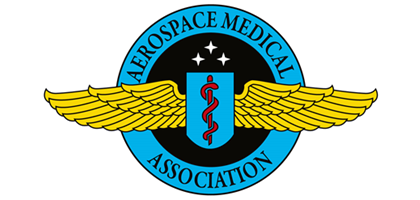
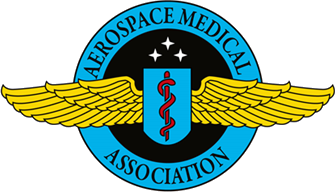
Make site responsive and polish Speaking, Recognition, and Contact sections
- Add mobile/tablet/laptop/desktop breakpoints with a mobile nav menu
- Modernize hero CTA buttons with hover/active/focus states
- Add logo badges to Speaking & Media cards (WAI, Forbes) and swap in a
  cleaner Forbes article screenshot
- Reposition and restyle the UW logo below the DRG and Abri Labs links;
  add the real Abri Labs logo
- Fix contact form bug where a mismatched element id threw a JS error on
  submit, so the "Thank you" confirmation never appeared
- Fix an accessibility bug where the Abri Labs link changed color instead
  of just underlining on hover
- Clean up the Recognition/affiliations list: trim baked-in whitespace and
  white backgrounds from logo assets, center them consistently, drop the
  divider lines, and collapse to a single column at every breakpoint

diff --git a/styles.css b/styles.css
@@ -56,10 +56,18 @@
 .s15 { font-size: 18px; font-weight: 400; color: oklch(33% 0.11 254); letter-spacing: 0.01em; margin-bottom: 36px; }
 .s16 { font-size: 17px; font-weight: 300; line-height: 1.78; color: oklch(34% 0.015 248); max-width: 560px; margin-bottom: 52px; animation: fadeUp 0.7s 0.7s ease both; }
 .s17 { display: flex; gap: 14px; flex-wrap: wrap; animation: fadeUp 0.7s 0.24s ease both; }
-.s18 { font-size: 15px; font-weight: 500; background: oklch(33% 0.11 254); color: white; padding: 15px 32px; border-radius: 4px; text-decoration: none; transition: background 0.18s; }
-.s18:hover { background: oklch(25% 0.11 254); text-decoration: none; }
-.s19 { font-size: 15px; font-weight: 500; color: oklch(33% 0.11 254); border: 1.5px solid oklch(75% 0.06 254); padding: 15px 32px; border-radius: 4px; text-decoration: none; transition: border-color 0.18s; }
-.s19:hover { border-color: oklch(33% 0.11 254); text-decoration: none; }
+.s18 { font-size: 15px; font-weight: 600; letter-spacing: -0.01em; background: oklch(33% 0.11 254); color: white; padding: 16px 30px; border-radius: 9px; text-decoration: none; display: inline-flex; align-items: center; gap: 8px; box-shadow: 0 1px 2px oklch(13% 0.04 252 / 0.08), 0 10px 22px oklch(33% 0.11 254 / 0.28); transition: background 0.22s ease, box-shadow 0.22s ease, transform 0.22s ease; }
+.s18::after { content: "→"; transition: transform 0.22s ease; }
+.s18:hover { background: oklch(27% 0.11 254); text-decoration: none; box-shadow: 0 2px 4px oklch(13% 0.04 252 / 0.1), 0 14px 28px oklch(33% 0.11 254 / 0.36); transform: translateY(-2px); }
+.s18:hover::after { transform: translateX(4px); }
+.s18:active { transform: translateY(0); box-shadow: 0 1px 2px oklch(13% 0.04 252 / 0.1), 0 6px 14px oklch(33% 0.11 254 / 0.3); }
+.s18:focus-visible { outline: 2px solid oklch(60% 0.1 254); outline-offset: 3px; }
+.s19 { font-size: 15px; font-weight: 600; letter-spacing: -0.01em; color: oklch(33% 0.11 254); background: white; border: 1.5px solid oklch(88% 0.015 250); padding: 16px 30px; border-radius: 9px; text-decoration: none; display: inline-flex; align-items: center; gap: 8px; box-shadow: 0 1px 2px oklch(13% 0.04 252 / 0.04); transition: border-color 0.22s ease, background 0.22s ease, box-shadow 0.22s ease, transform 0.22s ease; }
+.s19::after { content: "→"; transition: transform 0.22s ease; }
+.s19:hover { border-color: oklch(33% 0.11 254); background: oklch(97% 0.015 254); text-decoration: none; box-shadow: 0 6px 16px oklch(33% 0.11 254 / 0.12); transform: translateY(-2px); }
+.s19:hover::after { transform: translateX(4px); }
+.s19:active { transform: translateY(0); box-shadow: none; }
+.s19:focus-visible { outline: 2px solid oklch(60% 0.1 254); outline-offset: 3px; }
 .s20 { animation: fadeUp 0.7s 0.12s ease both; position: relative; max-width: 480px; margin: 0 auto; padding: 70px; }
 .s21 { position: absolute; inset: 0; background: radial-gradient(circle at 50% 46%, oklch(85% 0.006 247) 0%, oklch(85% 0.006 247) 34%, oklch(85% 0.006 247 / 0.65) 50%, oklch(85% 0.006 247 / 0.22) 68%, transparent 85%); pointer-events: none; }
 .s22 { position: absolute; left: 8%; right: 8%; top: 18%; height: 1px; background: oklch(60% 0.008 247 / 0.35); pointer-events: none; }
@@ -94,15 +102,15 @@
 .s51 { font-size: 14px; color: oklch(48% 0.015 248); line-height: 1.5; }
 .s52 { display: flex; align-items: center; gap: 10px; margin-bottom: 20px; }
 .s53 { height: 32px; width: auto; object-fit: contain; display: block; }
-.s54 { display: grid; grid-template-columns: repeat(2, 1fr); border-top: 1px solid oklch(87% 0.012 247); }
-.s55 { padding: 28px 0 28px 40px; border-bottom: 1px solid oklch(87% 0.012 247); border-left: 1px solid oklch(87% 0.012 247); display: flex; gap: 18px; align-items: flex-start; }
-.s56 { height: 28px; width: auto; object-fit: contain; flex-shrink: 0; margin-top: 2px; }
+.s54 { display: grid; grid-template-columns: 1fr; }
+.s55 { padding: 28px 0 28px 40px; display: flex; gap: 18px; align-items: center; }
+.s56 { height: 32px; width: 56px; object-fit: contain; object-position: center; flex-shrink: 0; }
 .s57 { font-size: 15.5px; font-weight: 500; color: oklch(13% 0.02 250); margin-bottom: 3px; }
 .s58 { font-size: 13.5px; color: oklch(48% 0.015 248); }
-.s59 { padding: 28px 40px 28px 0; border-bottom: 1px solid oklch(87% 0.012 247); display: flex; gap: 18px; align-items: flex-start; }
-.s60 { padding: 28px 0 28px 40px; border-left: 1px solid oklch(87% 0.012 247); border-bottom: 1px solid oklch(87% 0.012 247); display: flex; gap: 18px; align-items: flex-start; }
-.s61 { padding: 28px 40px 28px 0; display: flex; gap: 18px; align-items: flex-start; }
-.s62 { padding: 28px 0 28px 40px; border-left: 1px solid oklch(87% 0.012 247); display: flex; gap: 18px; align-items: flex-start; }
+.s59 { padding: 28px 40px 28px 0; display: flex; gap: 18px; align-items: center; }
+.s60 { padding: 28px 0 28px 40px; display: flex; gap: 18px; align-items: center; }
+.s61 { padding: 28px 40px 28px 0; display: flex; gap: 18px; align-items: center; }
+.s62 { padding: 28px 0 28px 40px; display: flex; gap: 18px; align-items: center; }
 .s63 { background: white; padding: 32px 0; overflow: hidden; border-top: 1px solid oklch(92% 0.01 247); border-bottom: 1px solid oklch(92% 0.01 247); }
 .s64 { display: flex; animation: marquee 32s linear infinite; width: max-content; }
 .s65 { display: flex; gap: 80px; align-items: center; padding: 0 40px; flex-shrink: 0; }
@@ -121,13 +129,16 @@
 .s77 { font-size: 17px; font-weight: 600; color: oklch(13% 0.02 250); margin-bottom: 12px; }
 .s78 { font-size: 15px; font-weight: 300; line-height: 1.72; color: oklch(38% 0.015 248); }
 .s79 { background: oklch(95.5% 0.015 250); border-radius: 5px; padding: 40px 48px; position: relative; }
-.s80 { position: absolute; top: 40px; right: 48px; height: 64px; width: auto; object-fit: contain; }
+.s80 { height: 72px; width: auto; object-fit: contain; display: block; }
 .s81 { font-size: 12px; font-weight: 600; letter-spacing: 0.1em; text-transform: uppercase; color: oklch(33% 0.11 254); margin-bottom: 16px; }
-.s82 { font-size: 26px; font-weight: 400; letter-spacing: -0.02em; color: oklch(13% 0.02 250); margin-bottom: 16px; line-height: 1.25; max-width: 85%; }
+.s82 { font-size: 26px; font-weight: 400; letter-spacing: -0.02em; color: oklch(13% 0.02 250); margin-bottom: 16px; line-height: 1.25; }
 .s83 { font-size: 15px; font-weight: 300; line-height: 1.8; color: oklch(34% 0.015 248); margin-bottom: 20px; max-width: 780px; }
 .s84 { color: oklch(33% 0.11 254); font-weight: 500; text-decoration: none; }
 .s84:hover { text-decoration: underline; }
 .s85 { display: flex; gap: 28px; flex-wrap: wrap; }
+.partner-logo-row { margin-top: 32px; padding-top: 28px; border-top: 1px solid oklch(85% 0.02 250 / 0.6); display: flex; align-items: center; gap: 28px; flex-wrap: wrap; }
+.partner-logo-chip { display: inline-flex; align-items: center; background: #4b2e83; border-radius: 8px; padding: 16px 24px; box-shadow: 0 4px 14px oklch(13% 0.04 252 / 0.10); }
+.abri-logo-mark { height: 44px; width: auto; object-fit: contain; display: block; }
 .s86 { background: white; padding: 40px 48px 64px; }
 .s87 { font-size: 15px; font-weight: 600; letter-spacing: 0.1em; text-transform: uppercase; color: oklch(33% 0.11 254); margin-bottom: 60px; }
 .s88 { display: grid; grid-template-columns: 300px 1fr; gap: 60px; margin-bottom: 36px; align-items: start; }
@@ -160,17 +171,18 @@
 .s111:hover { opacity: 0.7; }
 .s112 { background: white; padding: 0 48px 100px; }
 .s113 { background: oklch(13% 0.04 252); border-radius: 5px; padding: 56px 60px; }
+.s113 .partner-logo-row { border-top-color: oklch(100% 0 0 / 0.15); }
 .s114 { font-size: 12px; font-weight: 600; letter-spacing: 0.1em; text-transform: uppercase; color: white; margin-bottom: 20px; }
 .s115 { font-size: 28px; font-weight: 500; letter-spacing: -0.02em; color: white; margin-bottom: 20px; line-height: 1.2; }
 .s116 { font-size: 16px; font-weight: 300; line-height: 1.78; color: white; max-width: 780px; margin-bottom: 28px; }
 .s117 { font-size: 14px; font-weight: 500; color: white; text-decoration: none; }
-.s117:hover { text-decoration: underline; }
+.s117:hover { color: white; text-decoration: underline; }
 .s118 { display: flex; justify-content: space-between; align-items: flex-end; margin-bottom: 40px; }
 .s119 { font-size: 34px; font-weight: 300; line-height: 1.25; letter-spacing: -0.02em; color: oklch(13% 0.02 250); max-width: 480px; }
 .s120 { font-size: 14px; font-weight: 500; color: oklch(33% 0.11 254); text-decoration: none; white-space: nowrap; }
 .s120:hover { text-decoration: underline; }
 .s121 { display: grid; grid-template-columns: repeat(2, 1fr); gap: 20px; }
-.s122 { background: white; border-radius: 5px; overflow: hidden; display: flex; flex-direction: column; }
+.s122 { background: white; border-radius: 5px; overflow: hidden; display: flex; flex-direction: column; position: relative; }
 .s123 { width: 100%; height: 280px; object-fit: cover; object-position: center top; display: block; }
 .s124 { padding: 28px 28px 32px; flex: 1; }
 .s125 { font-size: 16px; font-weight: 500; color: oklch(13% 0.02 250); line-height: 1.35; margin-bottom: 8px; }
@@ -180,8 +192,12 @@
 .s129 { display: block; text-decoration: none; }
 .s130 { background: white; border-radius: 5px; overflow: hidden; display: flex; flex-direction: column; text-decoration: none; }
 .s130:hover { opacity: 0.85; }
-.s131 { width: 100%; height: 280px; object-fit: contain; object-position: center top; background: oklch(97% 0.005 247); display: block; }
+.s131 { width: 100%; height: 280px; object-fit: cover; object-position: center top; display: block; }
 .s132 { width: 100%; height: 280px; object-fit: cover; object-position: center 30%; display: block; }
+.media-badge { position: absolute; top: 16px; left: 16px; z-index: 2; box-shadow: 0 3px 10px oklch(13% 0.04 252 / 0.22); }
+.media-badge-logo { background: white; border-radius: 10px; padding: 10px 14px; display: flex; align-items: center; justify-content: center; }
+.media-badge-img { height: 36px; width: auto; object-fit: contain; display: block; }
+.media-badge-mono { width: 36px; height: 36px; border-radius: 50%; background: oklch(33% 0.11 254); color: white; font-size: 14px; font-weight: 700; display: flex; align-items: center; justify-content: center; }
 .s133 { max-width: 1240px; margin: 0 auto; display: flex; flex-direction: column; gap: 0; }
 .s134 { display: grid; grid-template-columns: 300px 1fr; gap: 100px; padding-bottom: 44px; border-bottom: 1px solid oklch(91% 0.01 247); align-items: start; margin-bottom: 44px; }
 .s135 { font-size: 12px; font-weight: 600; letter-spacing: 0.1em; text-transform: uppercase; color: oklch(33% 0.11 254); margin-bottom: 12px; }
@@ -223,3 +239,132 @@
 .s167 { display: flex; gap: 32px; }
 .s168 { font-size: 13px; color: white; text-decoration: none; }
 .s168:hover { text-decoration: underline; }
+
+/* ============================================================
+   RESPONSIVE
+   Tiers: ≤480 small mobile · ≤768 mobile · ≤1024 tablet ·
+   1025–1439 laptop (base styles above) · ≥1440 large desktop
+   ============================================================ */
+
+/* Hamburger button — hidden until mobile tier, s4 (#nav-links) becomes the panel it opens */
+.nav-toggle { display: none; flex-direction: column; justify-content: center; gap: 5px; width: 32px; height: 32px; background: none; border: none; cursor: pointer; padding: 0; }
+.nav-toggle span { display: block; width: 100%; height: 2px; background: oklch(13% 0.02 250); border-radius: 2px; transition: transform 0.25s ease, opacity 0.2s ease; }
+.nav-toggle[aria-expanded="true"] span:nth-child(1) { transform: translateY(7px) rotate(45deg); }
+.nav-toggle[aria-expanded="true"] span:nth-child(2) { opacity: 0; }
+.nav-toggle[aria-expanded="true"] span:nth-child(3) { transform: translateY(-7px) rotate(-45deg); }
+
+/* ---- Large desktop ---- */
+@media (min-width: 1440px) {
+  .s2, .s8, .s36, .s44, .s71, .s133, .s148, .s165 { max-width: 1400px; }
+  .s9 { font-size: 48px; }
+  .s13, .s14 { font-size: 44px; }
+}
+
+/* ---- Tablet ---- */
+@media (max-width: 1024px) {
+  .s1, .s7, .s35, .s43, .s70, .s86, .s112, .s147, .s164 { padding-left: 32px; padding-right: 32px; }
+  .s4 { gap: 24px; }
+  .s5, .s6 { font-size: 13px; }
+  /* Hero stays side-by-side with a smaller photo frame down to 641px */
+  .s8 { grid-template-columns: 1fr 260px; gap: 32px; align-items: center; }
+  .s9 { font-size: 32px; white-space: normal; height: auto; }
+  .s13, .s14 { font-size: 34px; }
+  .s16 { font-size: 15px; }
+  .s20 { max-width: 100%; padding: 20px; }
+  .s29 { padding: 16px 14px; border-radius: 26px; }
+  .s30 { padding: 6px; }
+  .s31 { padding: 3px; }
+  .s32 { height: 220px; }
+  .s33 { top: 3px; left: 3px; right: 3px; bottom: 3px; }
+  .s36, .s71, .s88, .s98, .s104, .s134 { grid-template-columns: 220px 1fr; gap: 48px; }
+  .s46 { grid-template-columns: repeat(2, 1fr); }
+  .s79 { padding: 40px; }
+  .s80 { height: 64px; }
+  .s148 { gap: 64px; }
+}
+
+/* ---- Mobile ---- */
+@media (max-width: 768px) {
+  /* Nav collapses into a dropdown panel triggered by the hamburger */
+  .nav-toggle { display: flex; }
+  .s4 { position: fixed; top: 70px; left: 0; right: 0; flex-direction: column; align-items: stretch; gap: 0; background: oklch(98% 0.006 247); box-shadow: 0 12px 24px oklch(13% 0.04 252 / 0.14); max-height: 0; overflow: hidden; transition: max-height 0.3s ease; }
+  .s4.nav-open { max-height: 320px; }
+  .s5, .s6 { width: 100%; padding: 16px 24px; border-bottom: 1px solid oklch(91% 0.01 247); font-size: 15px; }
+  .s6 { border: none; border-bottom: 1px solid oklch(91% 0.01 247); border-radius: 0; text-align: left; }
+
+  .s1, .s35, .s43, .s70, .s86, .s147, .s164 { padding-left: 24px; padding-right: 24px; }
+  .s7 { padding: 108px 24px 64px; min-height: auto; }
+  .s112 { padding: 0 24px 64px; }
+
+  /* About / Research / Publications label+content grids */
+  .s36, .s71, .s88, .s98, .s104, .s134 { grid-template-columns: 1fr; gap: 24px; }
+  .s38, .s72 { font-size: 26px; }
+  .s40 { height: 260px; }
+
+  /* Recognition */
+  .s46 { grid-template-columns: 1fr; }
+  .s55, .s59, .s60, .s61, .s62 { padding: 24px 0; }
+
+  /* Research focus + DRG */
+  .s75 { grid-template-columns: 1fr; }
+  .s79 { padding: 32px 24px; }
+  .s80 { height: 56px; }
+  .s82 { font-size: 22px; }
+  .s85 { gap: 16px; }
+  .partner-logo-row { margin-top: 24px; padding-top: 20px; gap: 20px; }
+  .partner-logo-chip { padding: 12px 18px; }
+  .abri-logo-mark { height: 34px; }
+
+  /* Publications */
+  .s99 { grid-template-columns: 1fr; }
+
+  /* Speaking & media */
+  .s118 { flex-direction: column; align-items: flex-start; gap: 16px; }
+  .s119, .s150 { font-size: 28px; }
+  .s121 { grid-template-columns: 1fr; }
+
+  /* Speaking detail lists */
+  .s137, .s140 { grid-template-columns: 1fr; gap: 4px; }
+  .s144, .s145 { grid-template-columns: 1fr; gap: 4px; }
+  .s139 { text-align: left; }
+
+  /* Contact */
+  .s148 { grid-template-columns: 1fr; gap: 48px; }
+  .s158 { grid-template-columns: 1fr; }
+  .s113 { padding: 40px 28px; }
+
+  /* Footer */
+  .s165 { flex-direction: column; gap: 16px; text-align: center; }
+  .s167 { gap: 24px; }
+}
+
+/* ---- Small mobile: hero drops to a single stacked column (text, then photo) ---- */
+@media (max-width: 640px) {
+  .s8 { grid-template-columns: 1fr; gap: 44px; }
+  .s9 { font-size: 28px; }
+  .s13, .s14 { font-size: 30px; }
+  .s16 { font-size: 16px; max-width: 100%; }
+  .s17 { width: 100%; }
+  .s18, .s19 { flex: 1; text-align: center; }
+  .s20 { max-width: 300px; padding: 40px 30px; }
+  .s29 { padding: 26px 22px; border-radius: 34px; }
+  .s30 { padding: 10px; }
+  .s31 { padding: 5px; }
+  .s32 { height: 380px; }
+  .s33 { top: 5px; left: 5px; right: 5px; bottom: 5px; }
+}
+
+/* ---- Small mobile ---- */
+@media (max-width: 480px) {
+  .s3 { font-size: 13px; }
+  .s9 { font-size: 22px; }
+  .s13, .s14 { font-size: 26px; }
+  .s28 { max-width: 240px; }
+  .s32 { height: 300px; }
+  .s17 { flex-direction: column; }
+  .s46, .s75 { gap: 16px; }
+  .s47 { padding: 32px 24px; }
+  .s150 { font-size: 26px; }
+  .s113 { padding: 32px 22px; }
+  .s115 { font-size: 24px; }
+}

diff --git a/index.html b/index.html
@@ -17,7 +17,10 @@
 <nav id="site-nav" class="s1">
   <div class="s2">
     <a href="#hero" class="s3">Kimberly Perkins, PhD</a>
-    <div class="s4">
+    <button id="nav-toggle" class="nav-toggle" aria-label="Toggle navigation" aria-expanded="false" aria-controls="nav-links">
+      <span></span><span></span><span></span>
+    </button>
+    <div class="s4" id="nav-links">
       <a href="#about" class="s5">About</a>
       <a href="#research" class="s5">Research</a>
       <a href="#speaking" class="s5">Speaking</a>
@@ -274,13 +277,17 @@
 
     <!-- Directed Research Groups -->
     <div class="s79">
-      <img src="assets/uw-wordmark.png" alt="University of Washington" class="s80">
       <p class="s81">Aviation Lab @ UW · Graduate Research</p>
       <h3 class="s82">Directed Research Groups (DRG)</h3>
       <p class="s83">DRGs bridge rigorous academic scholarship with policy-relevant, operationally grounded outcomes, connecting student researchers directly to the industry challenges their work is designed to solve. A flagship output of the DRGs is <a href="https://aviationresearch.info" target="_blank" class="s84">aviationresearch.info</a>, a living literature review written as an Op-Ed for the aviation community, featuring an interactive, searchable index of peer-reviewed aviation mental health literature that translates academic evidence into accessible insight for pilots, safety professionals, and policymakers.</p>
       <div class="s85">
         <a href="https://sites.uw.edu/pilot/" target="_blank" class="s74">Visit the Aviation Lab @ UW →</a>
         <a href="https://aviationresearch.info" target="_blank" class="s74">Explore aviationresearch.info →</a>
+      </div>
+      <div class="partner-logo-row">
+        <div class="partner-logo-chip">
+          <img src="assets/uw-wordmark-trimmed.png" alt="University of Washington" class="s80">
+        </div>
       </div>
     </div>
 
@@ -447,6 +454,9 @@
       <h3 class="s115">ABRI</h3>
       <p class="s116">ABRI is an aviation-specific Human Performance Risk Intelligence platform built alongside pilots, instructors, safety leaders, and human factors experts to ensure it is operationally grounded, ethically designed, and practical for everyday aviation. It provides aviation professionals with private, evidence-based coaching and support while delivering organizations only aggregate, de-identified insights that help identify emerging human performance risks, strengthen organizational culture, and proactively improve safety, without compromising individual privacy.</p>
       <a href="https://abrilabs.com" target="_blank" class="s117">Learn more about Abri Labs →</a>
+      <div class="partner-logo-row">
+        <img src="assets/abri-labs-logo.png" alt="Abri Labs" class="abri-logo-mark">
+      </div>
     </div>
   </div>
 </section>
@@ -466,6 +476,9 @@
 
       <div class="s122">
         <img src="assets/image8.jpeg" alt="Panel speaking event" class="s123">
+        <div class="media-badge media-badge-logo">
+          <img src="assets/wai.png" alt="Women in Aviation International" class="media-badge-img">
+        </div>
         <div class="s124">
           <p class="s101">Speaking</p>
           <p class="s125">Women in Aviation Leadership Forum</p>

diff --git a/script.js b/script.js
@@ -15,6 +15,24 @@ document.addEventListener('DOMContentLoaded', () => {
   window.addEventListener('scroll', onScroll, { passive: true });
   onScroll();
 
+  // ---- Mobile nav toggle ----
+  const navToggle = document.getElementById('nav-toggle');
+  const navLinks = document.getElementById('nav-links');
+
+  function closeNav() {
+    navToggle.setAttribute('aria-expanded', 'false');
+    navLinks.classList.remove('nav-open');
+  }
+
+  navToggle.addEventListener('click', () => {
+    const isOpen = navLinks.classList.toggle('nav-open');
+    navToggle.setAttribute('aria-expanded', String(isOpen));
+  });
+
+  navLinks.querySelectorAll('a').forEach((link) => {
+    link.addEventListener('click', closeNav);
+  });
+
   // ---- Hero typewriter ----
   const fullText = "Hi, I'm Kimberly.";
   const typedEl = document.getElementById('typed-text');
@@ -47,7 +65,6 @@ document.addEventListener('DOMContentLoaded', () => {
 
   // ---- Contact form -> mailto ----
   const form = document.getElementById('contact-form');
-  const formWrap = document.getElementById('contact-form-wrap');
   const thankYou = document.getElementById('thankyou-box');
 
   form.addEventListener('submit', (e) => {
@@ -63,7 +80,7 @@ document.addEventListener('DOMContentLoaded', () => {
 — ${firstName} ${lastName} (${email})`);
     window.location.href = `mailto:pilot@uw.edu?subject=${subject}&body=${body}`;
 
-    formWrap.style.display = 'none';
+    form.style.display = 'none';
     thankYou.style.display = 'block';
   });
 
